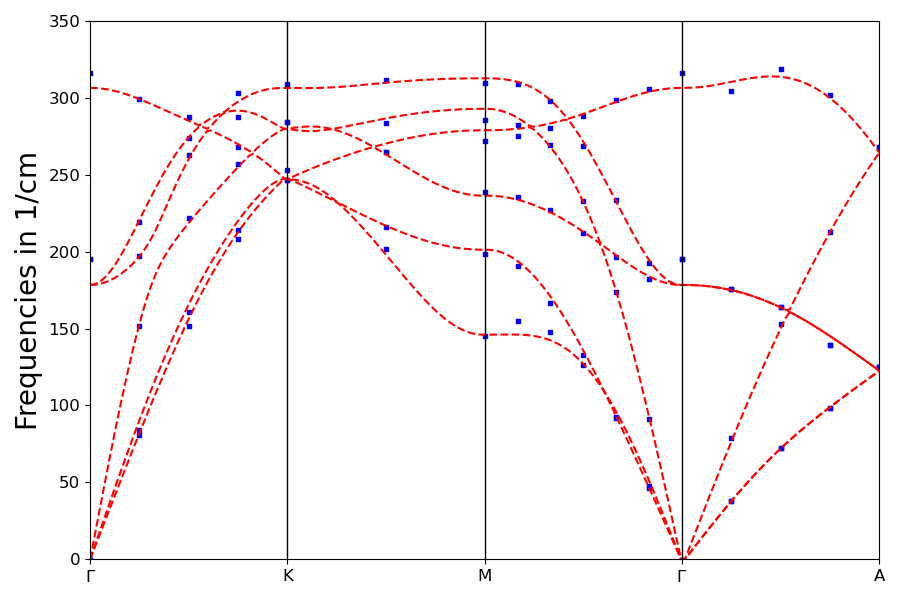
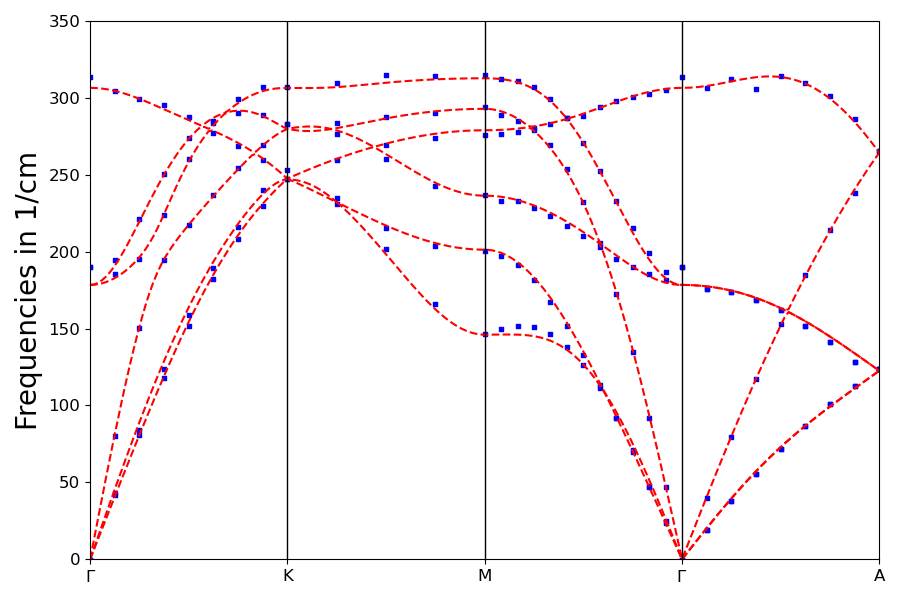
Enhanced phonon readme. Have a nice weekend!

diff --git a/juphon/README.md b/juphon/README.md
@@ -104,6 +104,7 @@ Make a subfolder DFPT and copy the optimized input file to it. Now you invoke th
 $ /path/to/fleur/inpgen -f inpCu_fit
 $ /path/to/fleur/inpgen -f inpCu_fit -nosym -add_name desym
 $ /path/to/fleur/inpgen -inp.xml -noKsym -kpt dfpt#gamma@grid=16,16,16
+$ /path/to/fleur/inpgen -inp.xml -noKsym -add_name desym -kpt dfpt#gamma@grid=16,16,16
 ```
 
 Edit both ```inp.xml``` and ```desym_inp.xml``` to reflect all the changes in the initial input file, like the setting of ```ctail``` etc. Especially ensure, that you use the same libxc functional you used initially, e.g. ```vwn```:
@@ -167,9 +168,15 @@ The programm will run self-consistency calculations for each q-point provided, e
 
 The development of FLAPW-DFPT in FLEUR has been and still is a lengthy process. There have been both numerical and conceptional hurdles to overcome, that led to quite a lot of finetuning and added corrections or reformulations. 
 
-Currently, the implementation is at the level of polyatomic metals. I.e., we tested monoatomic insulators and metals, silicon diamond as a two-atomic semiconductor and the magnetic metals bcc Fe and fcc Ni. We thus verified, that the calculation holds for more than one atom and more than one spin. However, for hcp Co we see kinks that distinguish the DFPT data from the phonopy curves especially on the Gamma-point. This indicates a problem in the description of terms with the eigenenergy response or the occupation number reponse, both of which are only relevant for more than one atom and the latter only so for materials with fractional occupation numbers. The latter also depend on the former. 
+Currently, the implementation is at the level of polyatomic metals. I.e., we tested monoatomic insulators and metals, silicon diamond as a two-atomic semiconductor and the magnetic metals bcc Fe and fcc Ni. We thus verified, that the calculation holds for more than one atom and more than one spin. However, for hcp Co we see kinks that distinguish the DFPT data from the phonopy curves especially on the Gamma-point. This indicates a problem in the description of terms with the eigenenergy response or the occupation number reponse, both of which are only relevant for more than one atom and the latter only so for materials with fractional occupation numbers. The latter also depend on the former. The DFPT data is plotted against a 4x4x4 supercell FD calculation.
 
 ![Cobalt phonon picture](./Cobalt_dispersion.png)
+
+Another current benchmark is the dispersion of Silicon Carbide. It is a test case for polyatomic materials with different atoms, to exclude the possibility of leftover bugs in relation to atomic indices. The DFPT data is plotted against a 2x2x2 supercell FD calculation.
+
+![Silicon Carbide phonon picture](./Silicon_Carbide_dispersion.png)
+
+The match for the acoustic branches is as neat as in cobalt, but this time we completely miss a point at Gamma for the optical modes and they deviate quite strongly from the FD line overall. This is possibly a first case, where a system needs the non-analytical term correction, though we were of the mind, that this only applies for polar materials. Further investiagtions need to be done.
 
 A point of contention are local orbitals to supplement the LAPW basis. In force calculations, i.e. a first order description, local obitals are completely contained up to the derivative of their matching coefficients. Doing the same in the DFPT scheme breaks the calculation and we adopt the apporach of not perturbing the LO basis functions.
 
